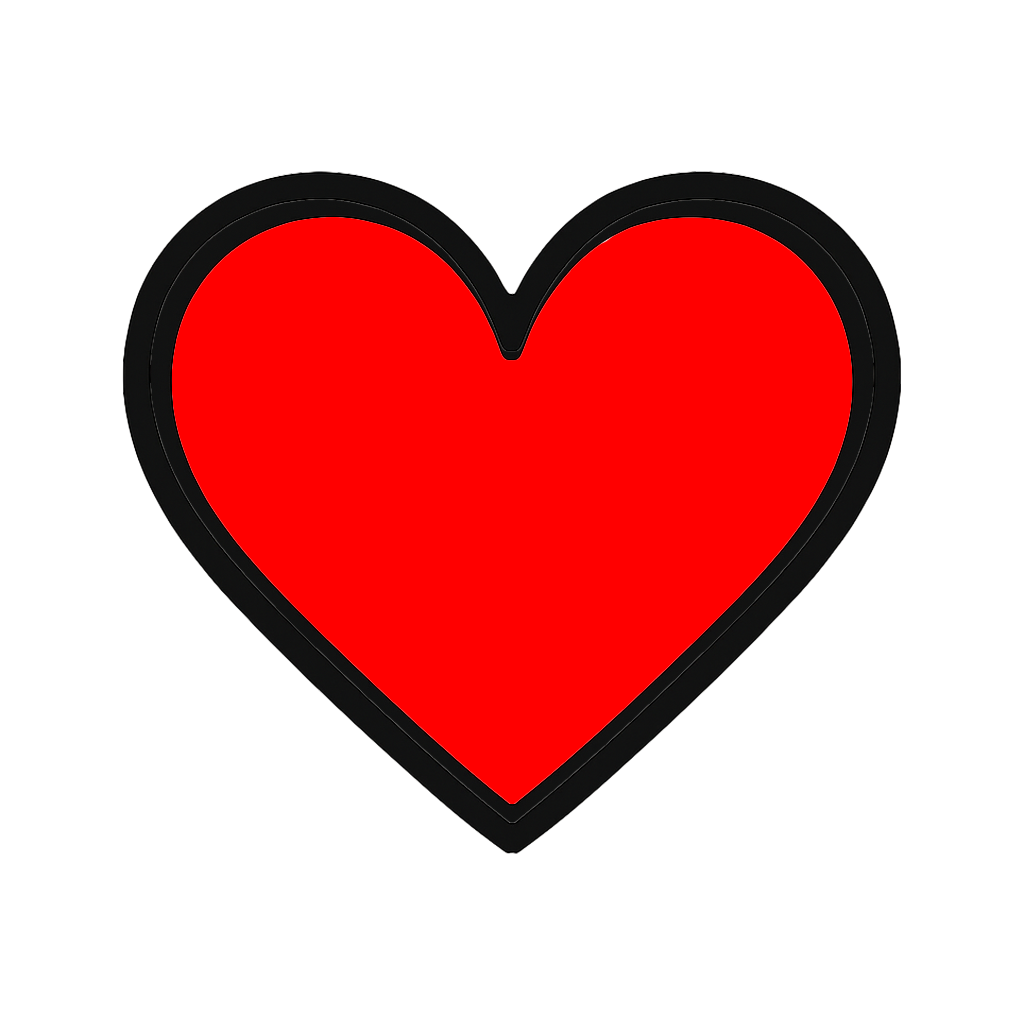
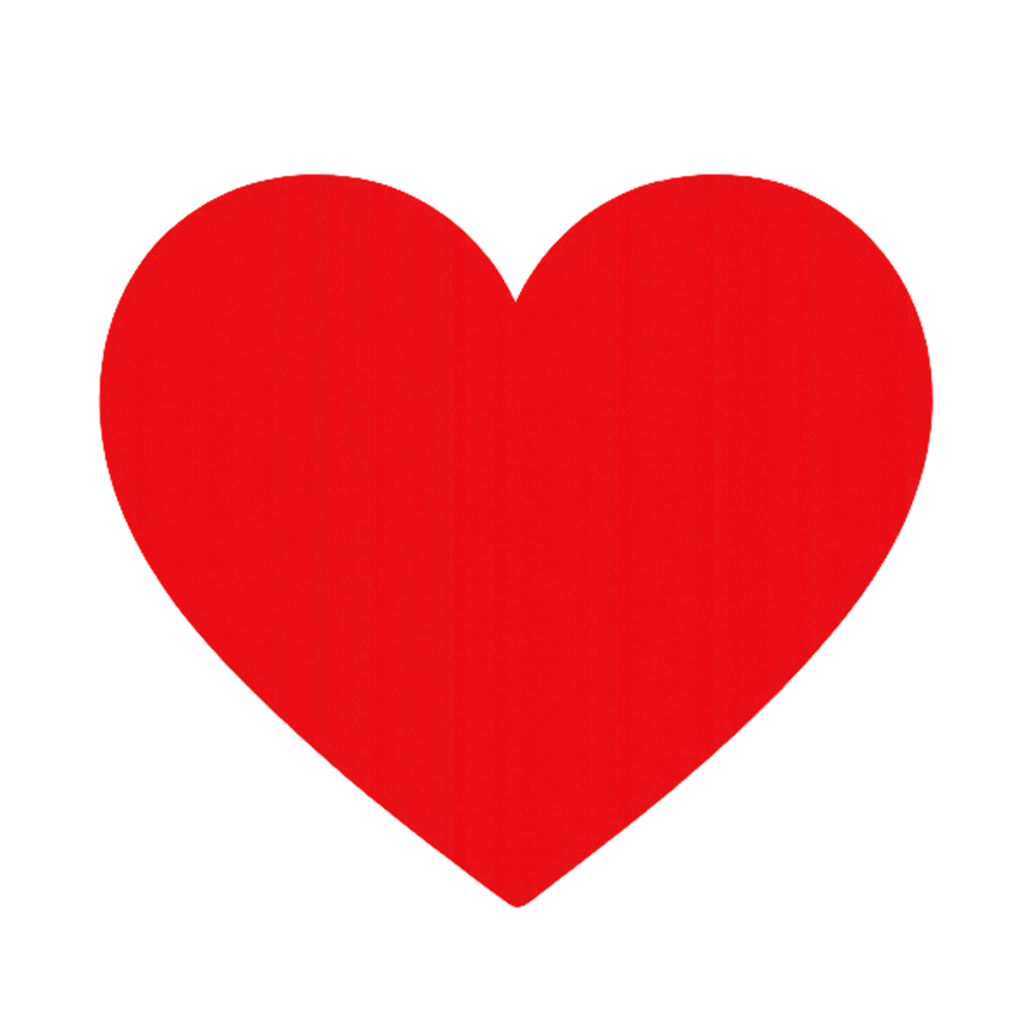
“changes”

Changed region(s): [[0.0938, 0.1562, 0.9375, 0.9062]]

diff --git a/src/App.css b/src/App.css
@@ -5,21 +5,16 @@ body {
   margin: 0;
   padding: 0;
   font-family: 'Poppins', sans-serif;
-  background-image: url('../src//components/assets/images/clothes-logo.png'); /* adjust path if needed */
+  background-image: url('/public/clothes-logo.png'); /* if in public folder */
   background-repeat: no-repeat;
-  background-size: contain; /* or cover if you want it to fill */
-  background-position: center;
-  background-attachment: fixed; /* keeps it from scrolling */
+  background-position: center top;
+  background-size: contain;
+  background-attachment: fixed;
+  min-height: 100vh;
 }
 .App-logo {
   height: 40vmin;
   pointer-events: none;
-}
-
-@media (prefers-reduced-motion: no-preference) {
-  .App-logo {
-    animation: App-logo-spin infinite 20s linear;
-  }
 }
 
 .App-header {
@@ -44,4 +39,24 @@ body {
   to {
     transform: rotate(360deg);
   }
+}
+.app-container {
+  background-image: url('/public/clothes-logo.png');
+  background-repeat: no-repeat;
+  background-position: center top;
+  background-size: contain;
+  background-attachment: fixed;
+  min-height: 100vh;
+  position: relative;
+  z-index: 1;
+}
+.app-container::before {
+  content: '';
+  position: absolute;
+  top: 0;
+  left: 0;
+  right: 0;
+  bottom: 0;
+  background: rgba(255, 255, 255, 0.6); /* or any light overlay */
+  z-index: -1;
 }

diff --git a/src/components/Layout.tsx b/src/components/Layout.tsx
@@ -4,6 +4,7 @@ import HeaderBar from './HeaderBar.tsx'
 import MainMenu from './MainMenu.tsx'
 import Footer from './Footer.tsx'
 import { Outlet } from 'react-router-dom'
+import '../App.css'
 
 const Layout: React.FC = () => {
   return (

diff --git a/src/components/FavoritesPage.css b/src/components/FavoritesPage.css
@@ -1,7 +1,7 @@
 .favorites-page {
   padding: 2rem;
   min-height: 100vh;
-  background-color: #f9f9f9;
+  background: none;
 }
 
 .favorite-items {

diff --git a/src/components/WeeklyTrends.css b/src/components/WeeklyTrends.css
@@ -1,6 +1,6 @@
 .trends-section {
   padding: 1rem;
-  background-color: #fafafa;
+  background: none;
 }
 
 .trends-section h2 {

diff --git a/src/components/MainContent.css b/src/components/MainContent.css
@@ -19,4 +19,5 @@
 
 .about-section p {
   margin-bottom: 1rem;
+  font-size: smaller;
 }
